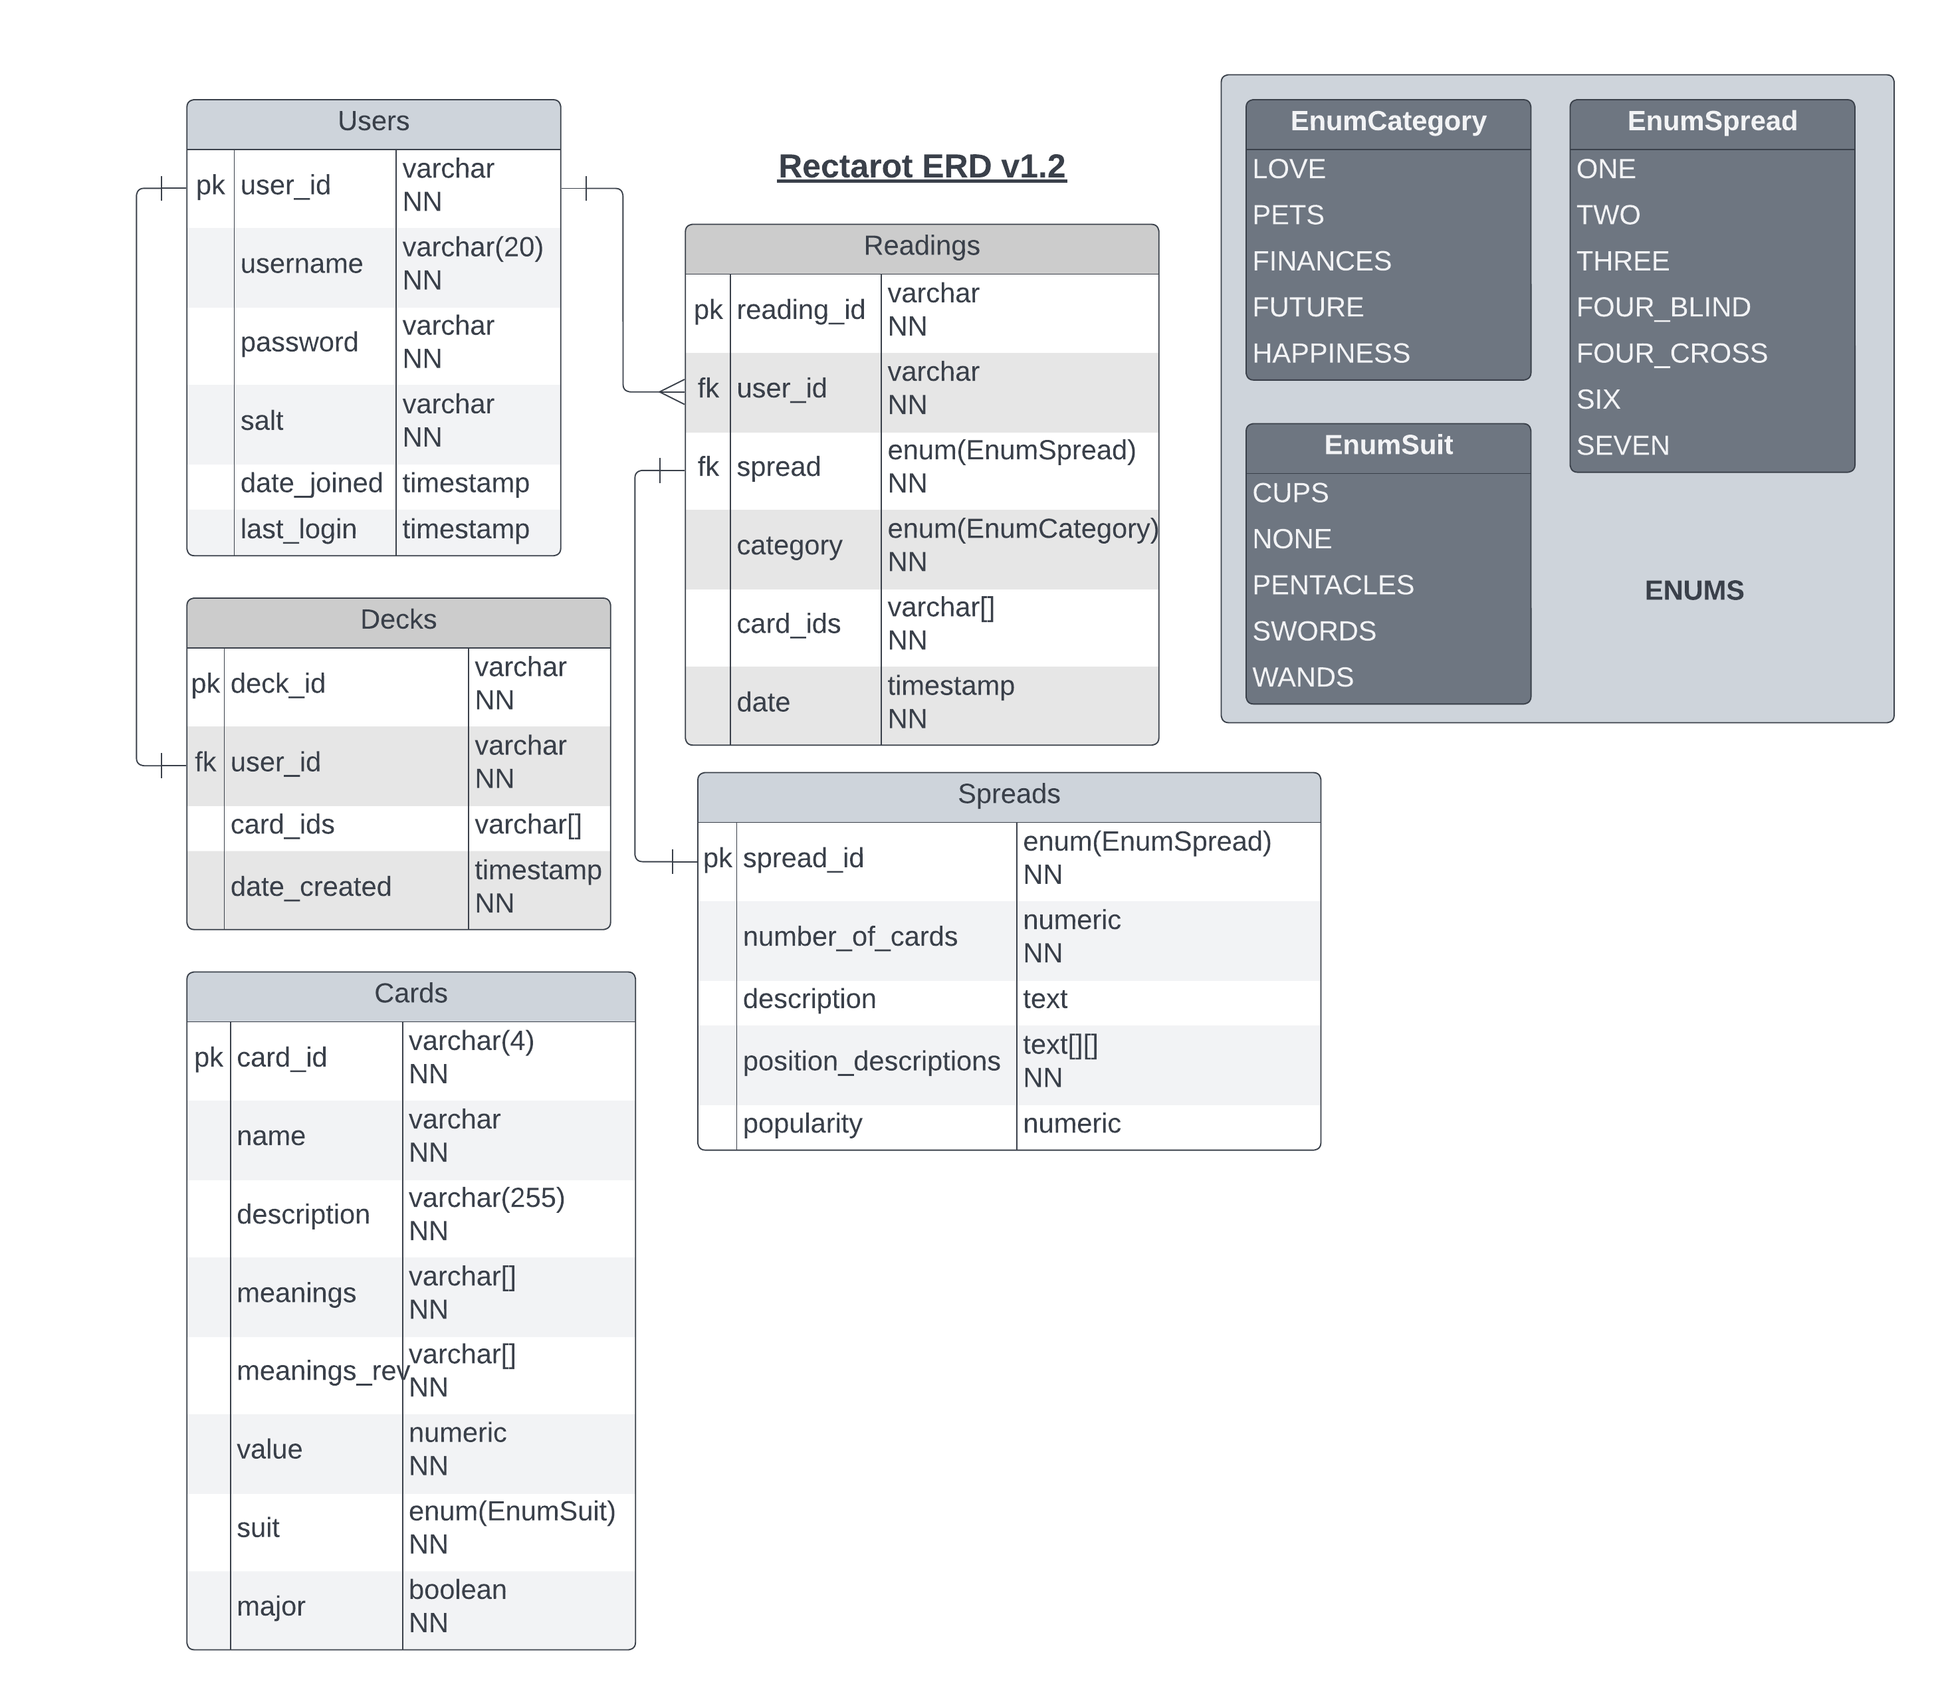
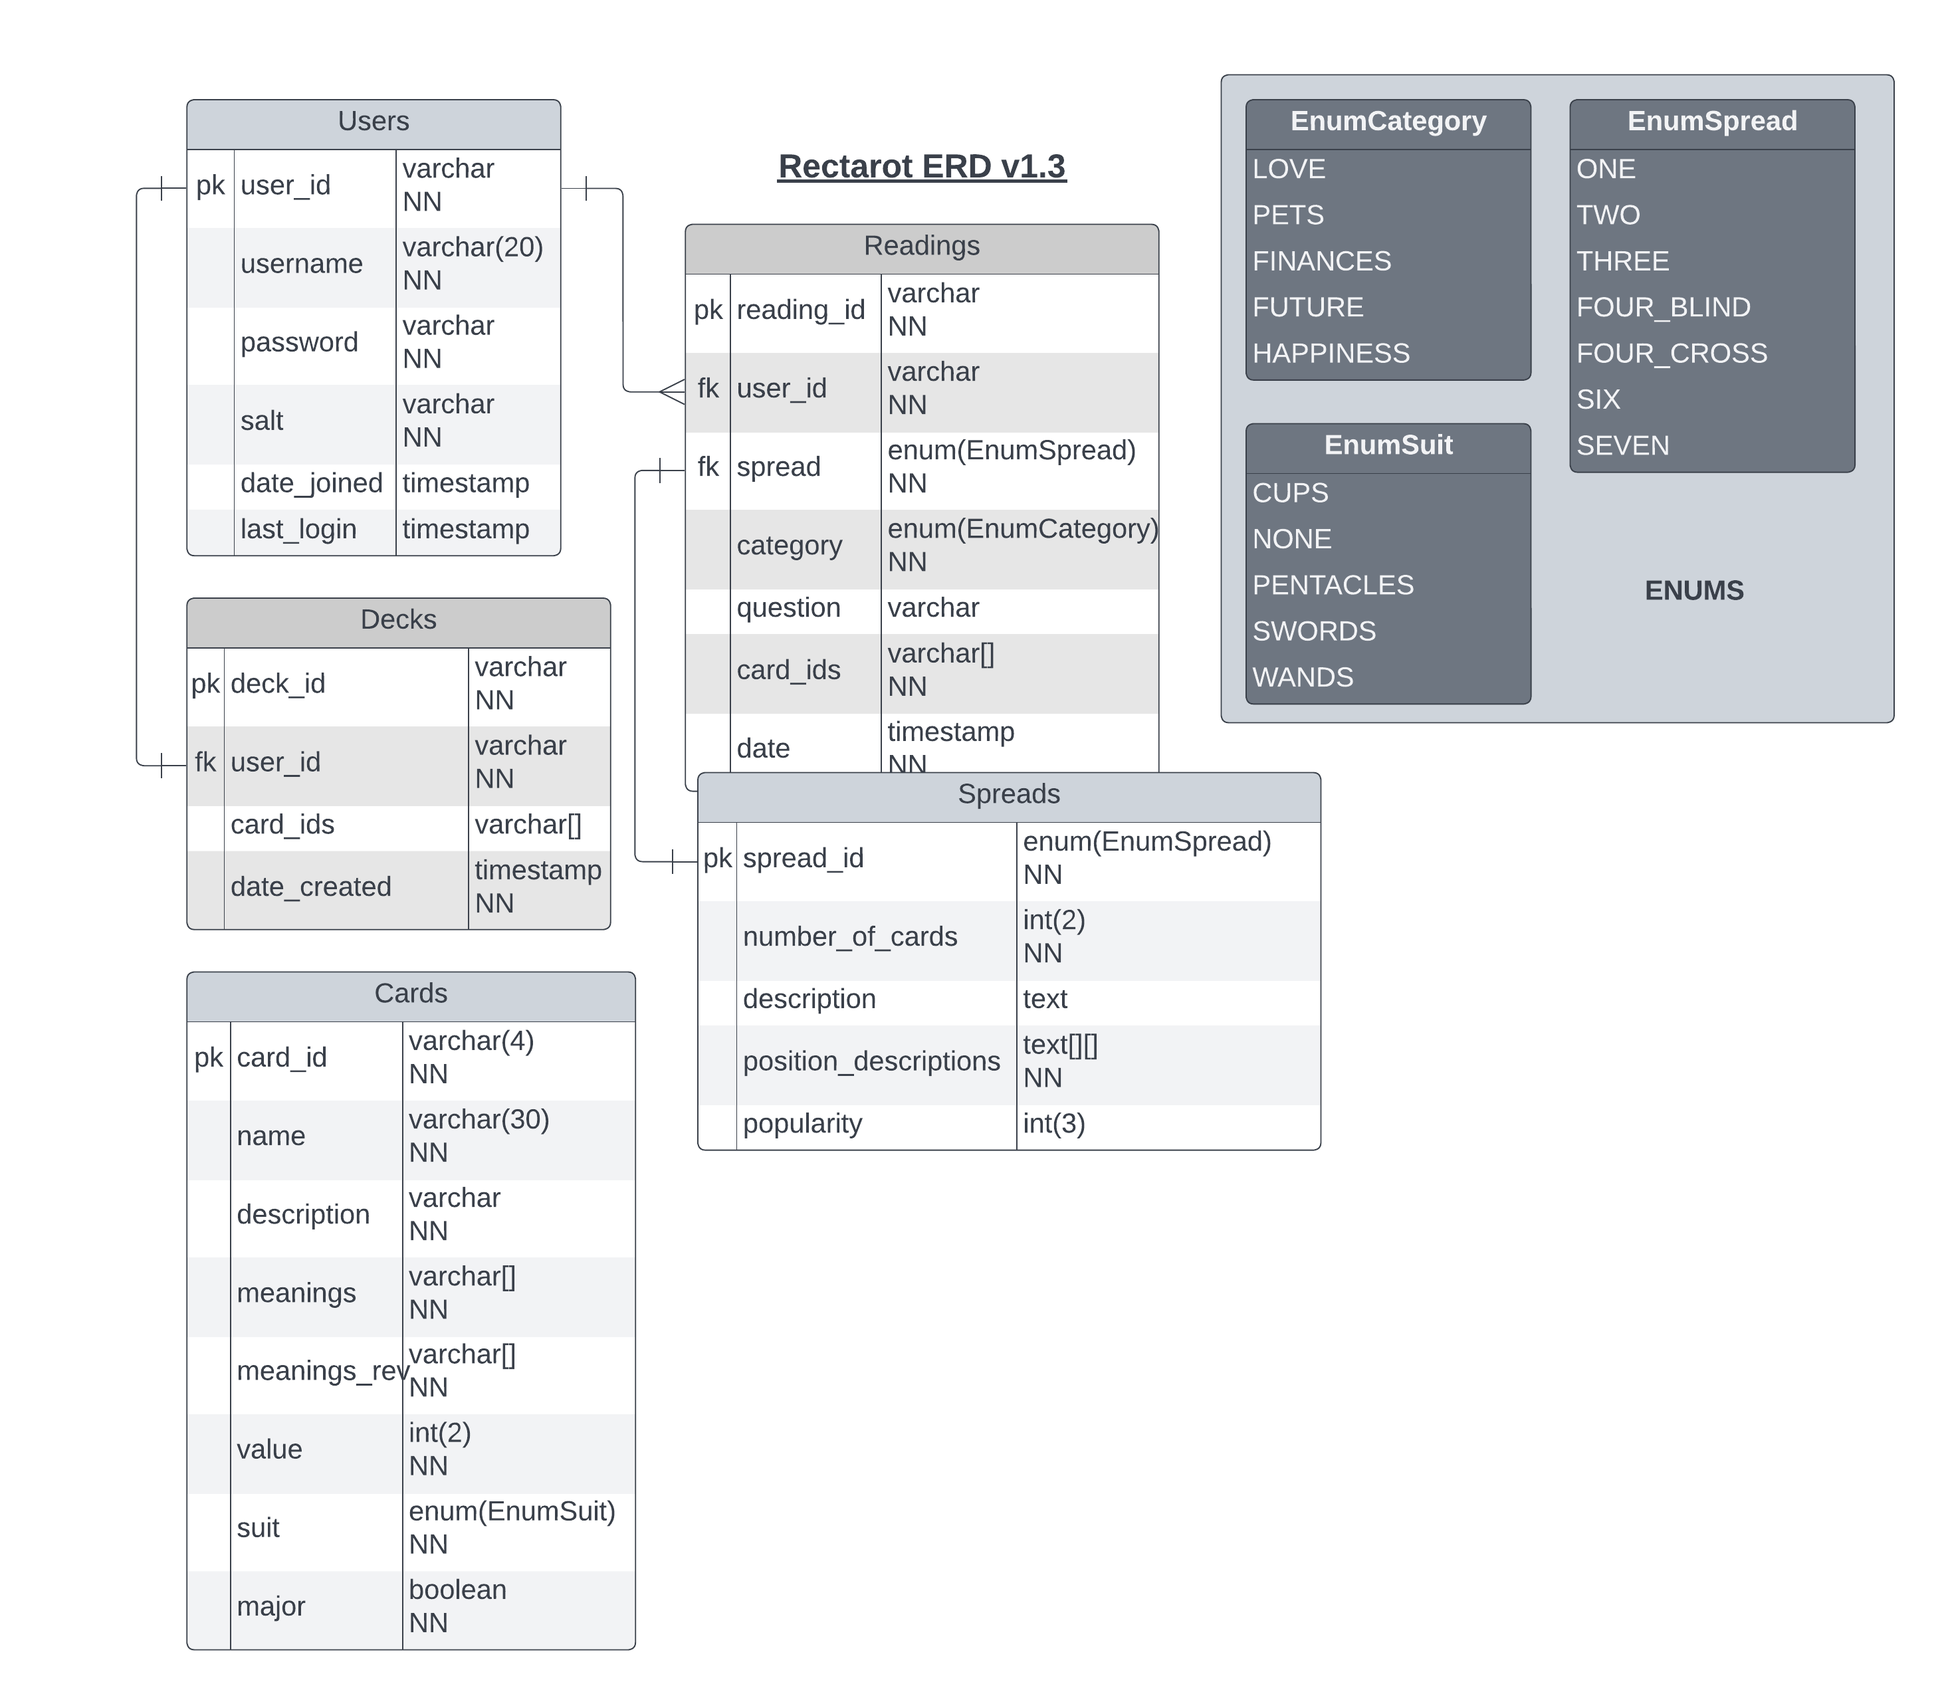
DTO package added(empty) Stubs for reading and deck controllers added(No post stubs yet due to no dtos).

diff --git a/src/main/java/com/revature/rectarot/models/Reading.java b/src/main/java/com/revature/rectarot/models/Reading.java
@@ -6,12 +6,13 @@ import com.revature.rectarot.models.enums.EnumCategory;
 import javax.persistence.*;
 import java.sql.Timestamp;
 import java.util.ArrayList;
+import java.util.UUID;
 
 @Entity
 @Table(name = "Readings")
 public class Reading {
     @Id
-    private String reading_id;
+    private UUID reading_id;
     @ManyToOne(fetch = FetchType.EAGER, cascade = CascadeType.ALL)
     @JoinColumn(name = "user_id", nullable = false)
     @JsonBackReference
@@ -20,9 +21,11 @@ public class Reading {
     @JoinColumn(name = "spread_id", nullable = false)
     @JsonBackReference
     private Spread spread_id;
-    @Column(name = "category", nullable = true)
-    @Enumerated(EnumType.STRING)
+    @Column(name = "category", columnDefinition = "enumcategory", nullable = true)
+    //@Enumerated(EnumType.STRING)
     private EnumCategory category;
+    @Column(name = "questions")
+    private String question;
     @Column(name = "card_ids", columnDefinition = "text[]", nullable = false)
     private ArrayList<String> card_ids;
     @Column(name = "date", nullable = false)
@@ -30,20 +33,21 @@ public class Reading {
 
     public Reading(){}
 
-    public Reading(String reading_id, User user_id, Spread spread_id, EnumCategory category, ArrayList<String> card_ids, Timestamp date) {
+    public Reading(UUID reading_id, User user_id, Spread spread_id, EnumCategory category, String question, ArrayList<String> card_ids, Timestamp date) {
         this.reading_id = reading_id;
         this.user_id = user_id;
         this.spread_id = spread_id;
         this.category = category;
+        this.question = question;
         this.card_ids = card_ids;
         this.date = date;
     }
 
-    public String getReading_id() {
+    public UUID getReading_id() {
         return reading_id;
     }
 
-    public void setReading_id(String reading_id) {
+    public void setReading_id(UUID reading_id) {
         this.reading_id = reading_id;
     }
 
@@ -71,6 +75,14 @@ public class Reading {
         this.category = category;
     }
 
+    public String getQuestion() {
+        return question;
+    }
+
+    public void setQuestion(String question) {
+        this.question = question;
+    }
+
     public ArrayList<String> getCard_ids() {
         return card_ids;
     }
@@ -94,6 +106,7 @@ public class Reading {
                 ", user_id=" + user_id +
                 ", spread_id=" + spread_id +
                 ", category=" + category +
+                ", question=" + question +
                 ", card_ids=" + card_ids +
                 ", date=" + date +
                 '}';

diff --git a/src/main/java/com/revature/rectarot/controllers/DeckController.java b/src/main/java/com/revature/rectarot/controllers/DeckController.java
@@ -1,7 +1,17 @@
 package com.revature.rectarot.controllers;
 
+import com.revature.rectarot.models.Card;
 import com.revature.rectarot.services.CardService;
 import com.revature.rectarot.services.DeckService;
+import org.springframework.http.MediaType;
+import org.springframework.web.bind.annotation.GetMapping;
+import org.springframework.web.bind.annotation.RequestParam;
+import org.springframework.web.bind.annotation.ResponseBody;
+
+import javax.servlet.http.HttpServletRequest;
+import javax.servlet.http.HttpServletResponse;
+import java.util.ArrayList;
+import java.util.List;
 
 public class DeckController {
     final DeckService deckService;
@@ -12,5 +22,27 @@ public class DeckController {
         this.cardService = cardService;
     }
 
-    //View Deck View Card Add Card Remove Card
+    //View Deck View Card Add Card Remove Card Draw random Card
+
+    @GetMapping(value = "/getDeck",  consumes = "application/json", produces = MediaType.APPLICATION_JSON_VALUE)
+    public @ResponseBody List<Card> getDeck(@RequestParam(required = false) String deckId, HttpServletResponse resp, HttpServletRequest req){
+        //default to the userId linked deck if there is no Id provided or create a new one if there is none linked to the user.
+        List<Card> deck = new ArrayList<>();
+        return deck;
+    }
+    @GetMapping(value = "/getCard",  consumes = "application/json", produces = MediaType.APPLICATION_JSON_VALUE)
+    public @ResponseBody Card getCard(@RequestParam(required = true) String cardId, HttpServletResponse resp, HttpServletRequest req){
+        Card card = new Card();
+        return card;
+    }
+    @GetMapping(value = "/removeCard",  consumes = "application/json", produces = MediaType.APPLICATION_JSON_VALUE)
+    public @ResponseBody String removeCard(@RequestParam(required = true) String cardId, HttpServletResponse resp, HttpServletRequest req){
+
+        return "Card Removed.";
+    }
+    @GetMapping(value = "/drawcard",  consumes = "application/json", produces = MediaType.APPLICATION_JSON_VALUE)
+    public @ResponseBody String drawCard(@RequestParam(required = false) int numOfCards, HttpServletResponse resp, HttpServletRequest req){
+
+        return "Card Drawn.";
+    }
 }

diff --git a/src/main/java/com/revature/rectarot/controllers/ReadingController.java b/src/main/java/com/revature/rectarot/controllers/ReadingController.java
@@ -3,8 +3,13 @@ package com.revature.rectarot.controllers;
 import com.revature.rectarot.services.CardService;
 import com.revature.rectarot.services.ReadingService;
 import com.revature.rectarot.services.SpreadService;
-import org.springframework.web.bind.annotation.RequestMapping;
-import org.springframework.web.bind.annotation.RestController;
+import org.springframework.http.MediaType;
+import org.springframework.web.bind.annotation.*;
+
+import javax.servlet.http.HttpServletRequest;
+import javax.servlet.http.HttpServletResponse;
+import java.util.ArrayList;
+import java.util.List;
 
 @RestController
 @RequestMapping("/Reading")
@@ -22,5 +27,25 @@ public class ReadingController {
     /*
     *Get Reading Save Reading Delete Reading View Saved Readings List Review A Saved Reading
     * * */
+    @GetMapping(value = "/getreading",  consumes = "application/json", produces = MediaType.APPLICATION_JSON_VALUE)
+    public @ResponseBody String getReading(@RequestParam(required = false) String readingSpread, HttpServletResponse resp, HttpServletRequest req){
+
+        return "Get Reading.";
+    }
+    @DeleteMapping(value = "/deletereading",  consumes = "application/json", produces = MediaType.APPLICATION_JSON_VALUE) //leaving in the produces to possibly use to confirm what was removed?
+    public @ResponseBody String deleteReading(@RequestParam(required = true) String readingId, HttpServletResponse resp, HttpServletRequest req){
+
+        return "Delete Reading.";
+    }
+    @GetMapping(value = "/viewSavedreading",  consumes = "application/json", produces = MediaType.APPLICATION_JSON_VALUE)
+    public @ResponseBody List<String> viewSavedReading(HttpServletResponse resp, HttpServletRequest req){
+        List<String> savedReadings = new ArrayList<>();
+        return savedReadings;
+    }
+    @GetMapping(value = "/viewSavedreading",  consumes = "application/json", produces = MediaType.APPLICATION_JSON_VALUE)
+    public @ResponseBody String viewSavedReading(@RequestParam(required = true) String readingId, HttpServletResponse resp, HttpServletRequest req){
+
+        return "savedReading";
+    }
 
 }

diff --git a/src/main/java/com/revature/rectarot/models/User.java b/src/main/java/com/revature/rectarot/models/User.java
@@ -1,15 +1,15 @@
 package com.revature.rectarot.models;
 
-import javax.annotation.Generated;
 import javax.persistence.*;
 import java.sql.Timestamp;
+import java.util.UUID;
 
 @Entity
 @Table(name = "Users")
 public class User {
     @Id
     //@GeneratedValue(strategy = GenerationType.IDENTITY) //TODO: Look up how this works
-    private String user_id;
+    private UUID user_id;
     @Column(name = "username", nullable = false)
     private String username;
     @Column(name = "password", nullable = false)
@@ -23,7 +23,7 @@ public class User {
 
     public User(){}
 
-    public User(String user_id, String username, String password, String salt, Timestamp date_joined, Timestamp last_login) {
+    public User(UUID user_id, String username, String password, String salt, Timestamp date_joined, Timestamp last_login) {
         this.user_id = user_id;
         this.username = username;
         this.password = password;
@@ -32,11 +32,11 @@ public class User {
         this.last_login = last_login;
     }
 
-    public String getUser_id() {
+    public UUID getUser_id() {
         return user_id;
     }
 
-    public void setUser_id(String user_id) {
+    public void setUser_id(UUID user_id) {
         this.user_id = user_id;
     }
 

diff --git a/src/main/java/com/revature/rectarot/models/Deck.java b/src/main/java/com/revature/rectarot/models/Deck.java
@@ -6,12 +6,13 @@ import javax.persistence.*;
 import java.sql.Timestamp;
 import java.util.ArrayList;
 import java.util.List;
+import java.util.UUID;
 
 @Entity
 @Table(name = "Decks")
 public class Deck {
     @Id
-    private String deck_id;
+    private UUID deck_id;
     @OneToOne(fetch = FetchType.EAGER, cascade = CascadeType.ALL)
     @JoinColumn(name = "user_id", nullable = false)
     @JsonBackReference
@@ -23,18 +24,18 @@ public class Deck {
 
     public Deck(){}
 
-    public Deck(String deck_id, User user_id, ArrayList<String> card_Ids, Timestamp date_created) {
+    public Deck(UUID deck_id, User user_id, ArrayList<String> card_Ids, Timestamp date_created) {
         this.deck_id = deck_id;
         this.user_id = user_id;
         this.card_ids = card_Ids;
         this.date_created = date_created;
     }
 
-    public String getDeck_id() {
+    public UUID getDeck_id() {
         return deck_id;
     }
 
-    public void setDeck_id(String deck_id) {
+    public void setDeck_id(UUID deck_id) {
         this.deck_id = deck_id;
     }
 

diff --git a/src/main/java/com/revature/rectarot/models/enums/EnumTranslator.java b/src/main/java/com/revature/rectarot/models/enums/EnumTranslator.java
@@ -1,2 +1,23 @@
-package com.revature.rectarot.models.enums;public class EnumTranslator {
+package com.revature.rectarot.models.enums;
+
+import org.hibernate.HibernateException;
+import org.hibernate.engine.spi.SharedSessionContractImplementor;
+import org.hibernate.type.EnumType;
+
+import java.sql.PreparedStatement;
+import java.sql.SQLException;
+import java.sql.Types;
+
+public class EnumTranslator extends EnumType {
+
+    @Override
+    public void nullSafeSet(PreparedStatement st, Object value, int index, SharedSessionContractImplementor session) throws HibernateException, SQLException {
+        super.nullSafeSet(st, value, index, session);
+        if(value == null) {
+            st.setNull( index, Types.OTHER );
+        }
+        else {
+            st.setObject( index, value.toString(), Types.OTHER );
+        }
+    }
 }

diff --git a/src/main/java/com/revature/rectarot/repositories/CardRepository.java b/src/main/java/com/revature/rectarot/repositories/CardRepository.java
@@ -1,2 +1,17 @@
-package com.revature.rectarot.repositories;public class CardRepository {
+package com.revature.rectarot.repositories;
+
+import com.revature.rectarot.models.Card;
+import org.springframework.data.repository.CrudRepository;
+import org.springframework.stereotype.Repository;
+
+
+@Repository
+public interface CardRepository extends CrudRepository<Card, String> {
+    /*methods in super
+    * save()
+    * findById()
+    * findAll()
+    * coujnt()
+    * deleteById()
+    *  */
 }

diff --git a/src/main/java/com/revature/rectarot/repositories/SpreadRepository.java b/src/main/java/com/revature/rectarot/repositories/SpreadRepository.java
@@ -1,2 +1,11 @@
-package com.revature.rectarot.repositories;public class SpreadRepository {
+package com.revature.rectarot.repositories;
+
+import com.revature.rectarot.models.Spread;
+import com.revature.rectarot.models.enums.EnumSpread;
+import org.springframework.data.repository.CrudRepository;
+import org.springframework.stereotype.Repository;
+
+
+@Repository
+public interface SpreadRepository extends CrudRepository<Spread, EnumSpread> {
 }

diff --git a/src/main/java/com/revature/rectarot/models/Card.java b/src/main/java/com/revature/rectarot/models/Card.java
@@ -20,8 +20,8 @@ public class Card {
     private ArrayList<String> meaningsRev;
     @Column(name = "value", nullable = false)
     private int value;
-    @Column(name = "suit", nullable = false)
-    @Enumerated(EnumType.STRING)
+    @Column(name = "suit", columnDefinition = "enumsuit", nullable = false)
+    //@Enumerated(EnumType.STRING)
     private EnumSuit suit;
     @Column(name = "major", nullable = false)
     private boolean major;

diff --git a/src/main/java/com/revature/rectarot/repositories/ReadingRepository.java b/src/main/java/com/revature/rectarot/repositories/ReadingRepository.java
@@ -1,2 +1,11 @@
-package com.revature.rectarot.repositories;public class ReadingRepository {
+package com.revature.rectarot.repositories;
+
+import com.revature.rectarot.models.Reading;
+import org.springframework.data.repository.CrudRepository;
+import org.springframework.stereotype.Repository;
+
+import java.util.UUID;
+
+@Repository
+public interface ReadingRepository extends CrudRepository<Reading, UUID> {
 }

diff --git a/src/main/java/com/revature/rectarot/models/Spread.java b/src/main/java/com/revature/rectarot/models/Spread.java
@@ -9,7 +9,9 @@ import java.util.ArrayList;
 @Table(name = "Spreads")
 public class Spread {
     @Id
-    @Enumerated(EnumType.STRING)
+    //@Enumerated(EnumType.STRING)
+    //@Type(type = "com.revature.rectarot.models.enums.EnumTranslator")
+    @Column(columnDefinition = "enumspread")
     private EnumSpread spread_id;
     @Column(name = "number_of_cards", nullable = false)
     private int numOfCards;

diff --git a/src/main/java/com/revature/rectarot/repositories/DeckRepository.java b/src/main/java/com/revature/rectarot/repositories/DeckRepository.java
@@ -1,2 +1,11 @@
-package com.revature.rectarot.repositories;public class DeckRepository {
+package com.revature.rectarot.repositories;
+
+import com.revature.rectarot.models.Deck;
+import org.springframework.data.repository.CrudRepository;
+import org.springframework.stereotype.Repository;
+
+import java.util.UUID;
+
+@Repository
+public interface DeckRepository extends CrudRepository<Deck, UUID> {
 }
